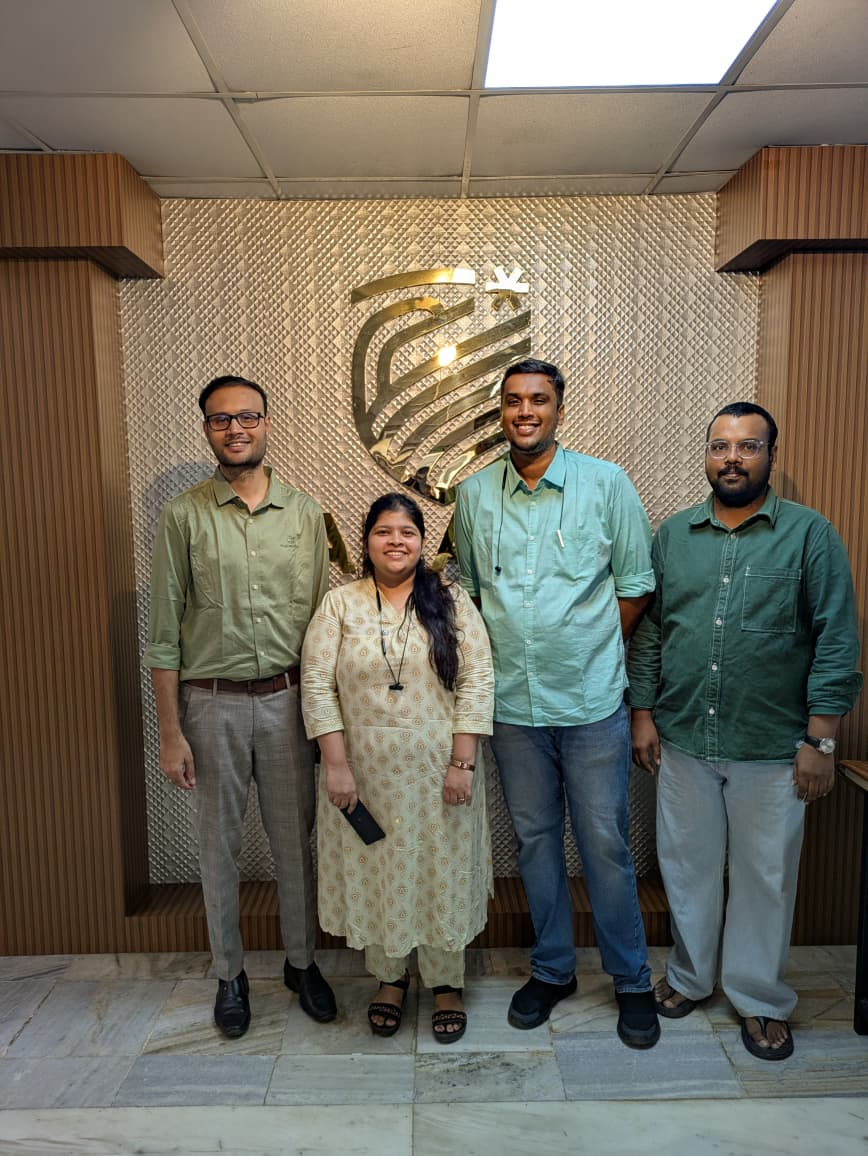
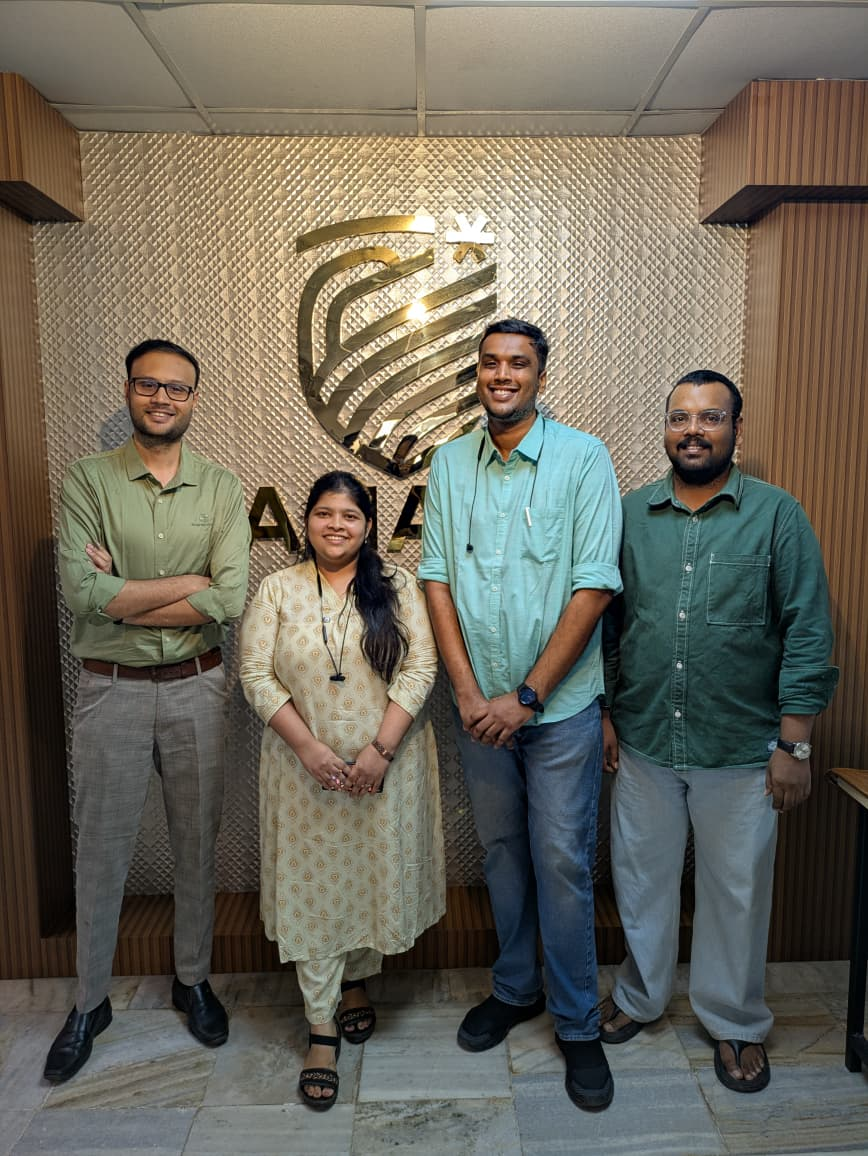
Update homepage photos and Accelerated Diagnostics funding [skip ci]

diff --git a/README.md b/README.md
@@ -69,7 +69,7 @@ The six supplied project records and their full scientific descriptions come fro
 2. Rapid Detection of Carbapenem Resistance — RUAS; 2022–2023; Principal Investigator.
 3. Multiplex Diagnostics for Paediatric Pneumonia — ICMR; 2023–2026; Principal Investigator.
 4. Peptide-Based Agents for Endodontic Disinfection — ICMR; 2024–2026; Co-Principal Investigator.
-5. Accelerated Diagnostics for Antimicrobial Resistance — ICMR; 2025–2028; Co-Principal Investigator.
+5. Accelerated Diagnostics for Antimicrobial Resistance — ICMR; ₹1.35 Cr; 2025–2028; Co-Principal Investigator.
 6. Point-of-Care Diagnosis for Melioidosis — BIRAC; 2026–2028; Principal Investigator.
 
 ### Team
@@ -124,7 +124,7 @@ The **Join** page uses the Site settings **Join text** and the lab's supplied re
 
 The five leadership/researcher portraits were extracted from **for website_guru,part.docx** and are stored in `public/images/people/`; obsolete SVG portrait placeholders have been removed. To replace a portrait, open **Team** in Pages CMS, select the person, and upload an approved image with the **Photo** field. Keep the image focused on the named person. Interns and alumni remain photo-free regardless of an uploaded photo.
 
-Use **Homepage → Overview images** for approved group photographs; the same ordered list appears on Home and About. The supplied originals remain at `public/images/laboratory/group-photo.jpeg` and `group-selfie.jpeg`. An empty list hides both galleries. Use descriptive alt text and neutral captions.
+Use **Homepage → Overview images** for approved group photographs; the same ordered list appears on Home and About. The supplied originals remain at `public/images/laboratory/group-photo.jpeg` and `group-selfie.jpeg`. An empty list hides both galleries. Keep descriptive alt text; the two group photographs are displayed without captions (leave their optional caption fields empty).
 
 Photo-section headings sit above their image and text regions. On small screens, images precede full-width body text; page and card headings use a reduced scale. Keep that reading order when updating Home, About, Research, Team, or Recognition layouts.
 

diff --git a/src/content/projects/accelerated-diagnostics-antimicrobial-resistance.md b/src/content/projects/accelerated-diagnostics-antimicrobial-resistance.md
@@ -3,7 +3,7 @@ title: "Accelerated Diagnostics for Antimicrobial Resistance"
 funder: "ICMR"
 period: "2025–2028"
 role: "Co-Principal Investigator: Dr. Tushar Shaw"
-amount: "Grant amount to be confirmed"
+amount: "₹1.35 Cr"
 order: 5
 ---
 
